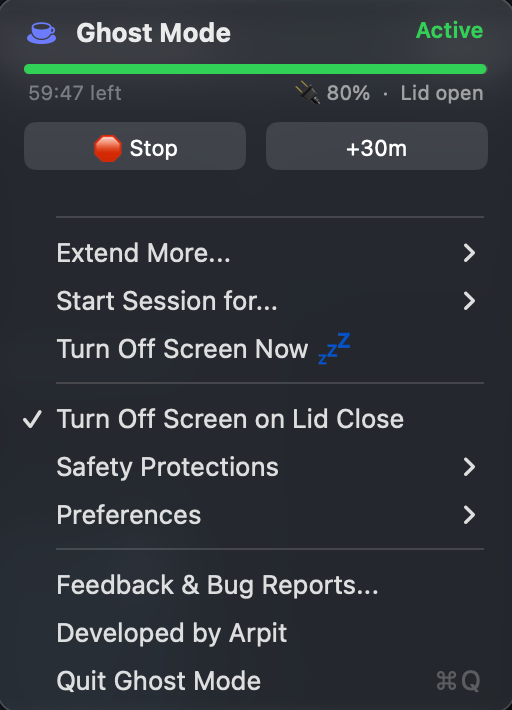
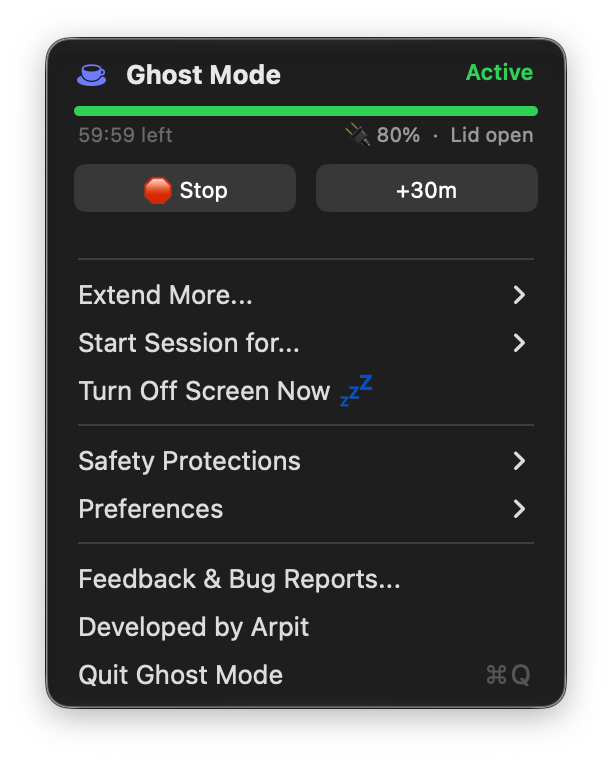
feat: dynamically switch preset menu title when session is active and update README screenshots

diff --git a/main.swift b/main.swift
@@ -1110,7 +1110,8 @@ class AppDelegate: NSObject, NSApplicationDelegate {
         // 2. Extend submenu only makes sense while a session is running
         extendSubmenuItem.isHidden = !isSleepDisabled
 
-        // 3. Presets Submenu Checkmarks & (Default) Tags
+        // 3. Presets Submenu Title, Checkmarks & (Default) Tags
+        presetsSubmenuItem.title = isSleepDisabled ? "Switch Session to..." : "Start Session for..."
         let defSecs = Preferences.shared.defaultDuration
         var matchedPreset = false
 
@@ -1378,11 +1379,12 @@ class AppDelegate: NSObject, NSApplicationDelegate {
     }
 
     @objc func startCustomDurationClicked(_ sender: NSMenuItem) {
+        let isSleepDisabled = PowerManager.shared.checkLidSleepDisabled()
         let alert = NSAlert()
-        alert.messageText = "Start Custom Ghost Mode Session"
+        alert.messageText = isSleepDisabled ? "Switch Ghost Mode Session Duration" : "Start Custom Ghost Mode Session"
         alert.informativeText = "Enter duration (e.g., '90m' for 90 minutes, '2.5h' for 2.5 hours, or raw minutes):"
         alert.alertStyle = .informational
-        alert.addButton(withTitle: "Start Session")
+        alert.addButton(withTitle: isSleepDisabled ? "Switch Duration" : "Start Session")
         alert.addButton(withTitle: "Cancel")
 
         let input = NSTextField(frame: NSRect(x: 0, y: 0, width: 220, height: 24))

diff --git a/README.md b/README.md
@@ -63,7 +63,11 @@
 ## 📸 Menu Interface & Dashboard
 
 <div align="center">
-  <img src="GhostMode_Dashboard.png" alt="Ghost Mode Menu Interface" width="340" style="border-radius: 12px; box-shadow: 0 10px 30px rgba(0,0,0,0.35);" />
+  <p>
+    <img src="GhostMode_Inactive.png" alt="Ghost Mode - Normal Sleep State" width="310" style="border-radius: 12px; margin-right: 12px;" />
+    <img src="GhostMode_Active.png" alt="Ghost Mode - Active Session State" width="310" style="border-radius: 12px;" />
+  </p>
+  <p><i>Left: Normal Sleep (Inactive) &bull; Right: Active Keep-Awake Session with Live Progress</i></p>
 </div>
 
 ---
